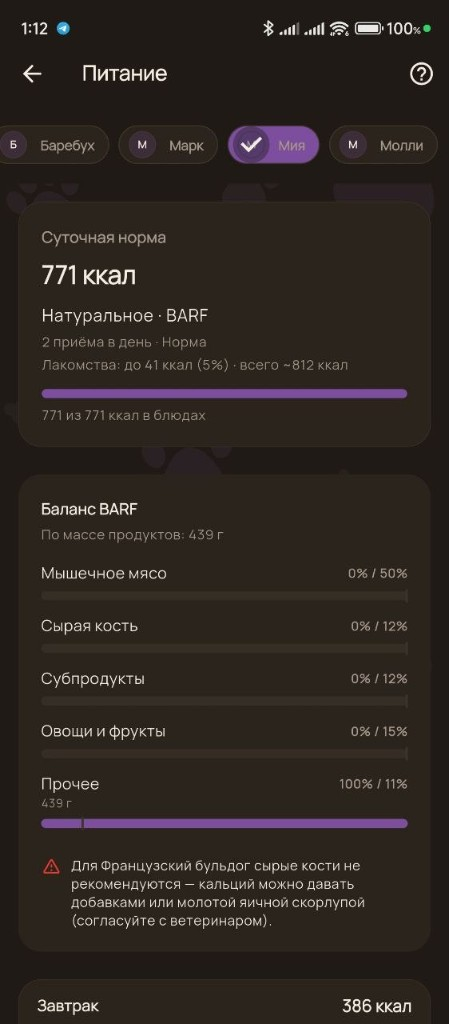
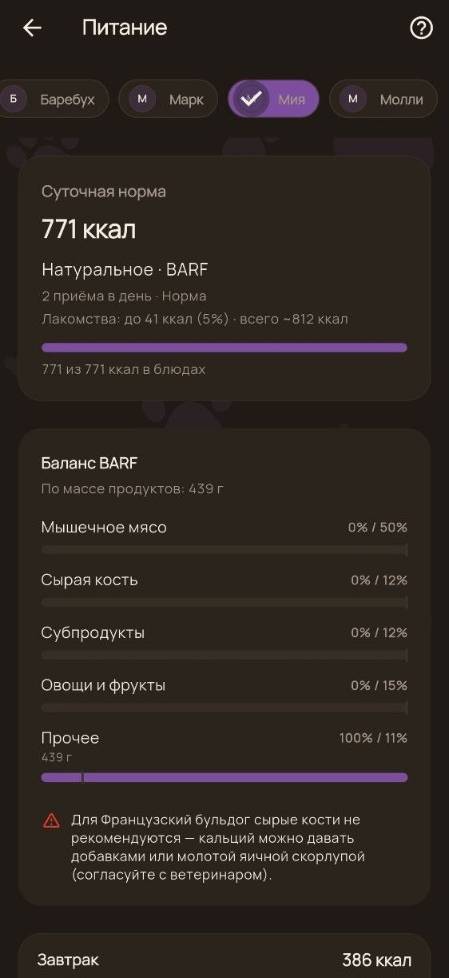
Add cropped screenshots and nearby map gallery

diff --git a/src/lib/constants.ts b/src/lib/constants.ts
@@ -153,4 +153,18 @@ export const SCREENSHOTS = [
     alt: "Питание: суточная норма, баланс BARF и учёт порций",
     caption: "Питание и BARF",
   },
+  {
+    src: "/screenshots/nearby-map.png",
+    alt: "Карта полезных мест: ветклиники, зоомагазины, площадки",
+    caption: "Полезное рядом",
+  },
+  {
+    src: "/screenshots/nearby-place.png",
+    alt: "Детали места на карте с построением маршрута",
+    caption: "Маршрут до места",
+  },
 ] as const;
+
+/** Высота скриншота после обрезки системного статус-бара (px). */
+export const SCREENSHOT_HEIGHT = 978;
+export const SCREENSHOT_WIDTH = 449;

diff --git a/src/components/PhoneMockup.tsx b/src/components/PhoneMockup.tsx
@@ -1,5 +1,6 @@
 import Image from "next/image";
 import { assetPath } from "@/lib/assetPath";
+import { SCREENSHOT_HEIGHT, SCREENSHOT_WIDTH } from "@/lib/constants";
 
 const HERO_SCREENSHOT = assetPath("/screenshots/emergency-vet.png");
 
@@ -15,12 +16,12 @@ export function PhoneMockup() {
           >
             <div className="h-1 w-16 rounded-full bg-text/15" />
           </div>
-          <div className="aspect-[449/1024] overflow-hidden bg-surface-dark">
+          <div className="aspect-[449/978] overflow-hidden bg-surface-dark">
             <Image
               src={HERO_SCREENSHOT}
               alt="Экран приложения Собачники: скорая ветпомощь и ближайшие клиники"
-              width={449}
-              height={1024}
+              width={SCREENSHOT_WIDTH}
+              height={SCREENSHOT_HEIGHT}
               priority
               className="h-full w-full object-cover object-top"
             />

diff --git a/src/components/AppScreenshot.tsx b/src/components/AppScreenshot.tsx
@@ -1,5 +1,6 @@
 import Image from "next/image";
 import { assetPath } from "@/lib/assetPath";
+import { SCREENSHOT_HEIGHT, SCREENSHOT_WIDTH } from "@/lib/constants";
 
 interface AppScreenshotProps {
   src: string;
@@ -22,8 +23,8 @@ export function AppScreenshot({
         <Image
           src={assetPath(src)}
           alt={alt}
-          width={449}
-          height={1024}
+          width={SCREENSHOT_WIDTH}
+          height={SCREENSHOT_HEIGHT}
           priority={priority}
           className="h-auto w-full object-cover object-top"
         />

diff --git a/src/components/Screenshots.tsx b/src/components/Screenshots.tsx
@@ -19,7 +19,7 @@ export function Screenshots() {
 
         <FadeIn delay={100}>
           <div
-            className="mt-10 flex justify-center gap-4 overflow-x-auto pb-4 snap-x snap-mandatory [-ms-overflow-style:none] [scrollbar-width:none] [&::-webkit-scrollbar]:hidden sm:grid sm:max-w-xl sm:grid-cols-2 sm:gap-6 sm:overflow-visible sm:mx-auto lg:max-w-2xl"
+            className="mt-10 flex justify-center gap-4 overflow-x-auto pb-4 snap-x snap-mandatory [-ms-overflow-style:none] [scrollbar-width:none] [&::-webkit-scrollbar]:hidden sm:grid sm:max-w-3xl sm:grid-cols-2 sm:gap-6 sm:overflow-visible sm:mx-auto lg:max-w-4xl"
             role="list"
             aria-label="Галерея скриншотов приложения"
           >

diff --git a/scripts/crop-screenshots.py b/scripts/crop-screenshots.py
@@ -1,0 +1,37 @@
+#!/usr/bin/env python3
+"""Обрезает системный статус-бар (время, зарядка) с верхней части скриншотов."""
+
+from __future__ import annotations
+
+import sys
+from pathlib import Path
+
+from PIL import Image
+
+CROP_RATIO = 0.045  # ~46 px при высоте 1024
+
+
+def crop_status_bar(src: Path, dst: Path | None = None) -> None:
+    im = Image.open(src)
+    w, h = im.size
+    crop = int(h * CROP_RATIO)
+    cropped = im.crop((0, crop, w, h))
+    cropped.save(dst or src, quality=92)
+    print(f"{src.name}: {w}x{h} -> {w}x{h - crop} (crop {crop}px)")
+
+
+def main() -> None:
+    targets = sys.argv[1:] or ["public/screenshots"]
+    for target in targets:
+        path = Path(target)
+        if path.is_dir():
+            for file in sorted(path.glob("*.png")):
+                crop_status_bar(file)
+        elif path.is_file():
+            crop_status_bar(path)
+        else:
+            print(f"Skip: {path}")
+
+
+if __name__ == "__main__":
+    main()